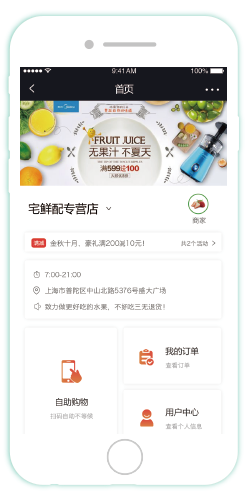
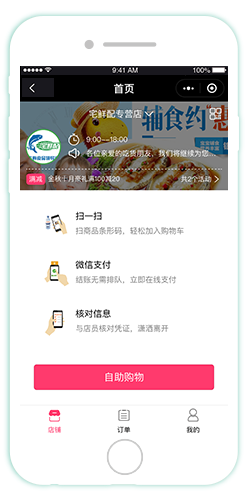
更新merchant应用模块

diff --git a/content/apps/merchant/templates/merchant/merchant_template.dwt.php b/content/apps/merchant/templates/merchant/merchant_template.dwt.php
@@ -64,7 +64,25 @@
                                 </div>
                         	</div>
                         </div>
-                        <div class="form-group">
+                        
+                      	<div class="form-group">
+                        	<label class="control-label col-lg-2"></label>
+                            <div class="col-lg-10">
+                                <div class="template-content img-pwsp-list">
+                                	<div class="template-item">
+                                		<figure><span><a class="nopjax" href="{$app_url}template_4.png" data-size="248x500" data-med-size="200x403" title="点击放大" data-med="{$app_url}template_4.png"><img href="{$app_url}template_4.png" src="{$app_url}template_4.png" class="w200"/></a></span></figure>
+                                	</div>
+                                </div>
+                            </div>
+                            <label class="control-label col-lg-2"></label>
+                            <div class="col-lg-10 m_b10">
+                            	<div class="f_l">
+	                                <input id="template_4" type="radio" name="shop_template" value="default4" {if $shop_template eq 'default4'} checked{/if}/>
+	                                <label for="template_4">优惠买单模版<span class="help-block">适用于到店支付、享受店铺优惠</span></label>
+                                </div>
+                        	</div>
+                        </div>
+                        <div class="form-group m_t20">
                             <div class="col-lg-6 col-md-offset-2">
                                 <input class="btn btn-info" type="submit" name="name" value="确定">
                             </div>

diff --git a/content/apps/merchant/modules/admin/merchant/validate_module.class.php b/content/apps/merchant/modules/admin/merchant/validate_module.class.php
@@ -56,12 +56,18 @@ class validate_module extends api_admin implements api_interface {
 		$value		    = $this->requestData('value');
 		$validate_type	= $this->requestData('validate_type');
 		$validate_code	= $this->requestData('validate_code');
+		$captcha_code = $this->requestData('captcha_code');
 		$time           = RC_Time::gmtime();
 
-		if (empty($type) || empty($value)) {
+		if (empty($type) || empty($value) || empty($captcha_code)) {
 			return new ecjia_error( 'invalid_parameter', RC_Lang::get ('system::system.invalid_parameter' ));
 		}
-
+		
+		//判断验证码是否正确
+		if (isset($captcha_code) && $_SESSION['captcha_word'] != strtolower($captcha_code)) {
+			return new ecjia_error( 'captcha_code_error', '验证码错误');
+		}
+		
 		/* 如果进度查询，查询入驻信息是否存在*/
 		if ($validate_type == 'process') {
 			$info_store_preaudit	= RC_DB::table('store_preaudit')->where('contact_mobile', $value)->first();

diff --git a/content/apps/merchant/templates/merchant/merchant_basic_info.dwt.php b/content/apps/merchant/templates/merchant/merchant_basic_info.dwt.php
@@ -101,7 +101,7 @@ label + div.col-lg-6, label + div.col-lg-2 {
                                     </span>
                                     <a class="btn btn-danger btn-sm fileupload-exists" {if $data.shop_banner_pic}data-toggle="ajax_remove"{else}data-dismiss="fileupload"{/if} href="{url path='merchant/merchant/drop_file' args="code=shop_banner_pic"}" >删除</a>
                                 </div>
-                                <span class="help-block">推荐图片的尺寸为：3:1（600x200px）</span>
+                                <span class="help-block">推荐图片的尺寸为：3:1（1200x400px）</span>
                             </div>
                         </div>
                         

diff --git a/content/apps/merchant/templates/merchant/library/common_header.lbi.php b/content/apps/merchant/templates/merchant/library/common_header.lbi.php
@@ -113,7 +113,7 @@
                    	</ul>
                 </li>
                 <!-- user login dropdown start-->
-                <li class="dropdown m_t5">
+                <li class="dropdown">
                     <a data-toggle="dropdown" class="dropdown-toggle" href="index.html#">
                     	{if $ecjia_staff_logo}
                         <img alt="" width="30" height="30" src="{RC_Upload::upload_url()}/{$ecjia_staff_logo}">

diff --git a/content/apps/merchant/modules/seller/list_module.class.php b/content/apps/merchant/modules/seller/list_module.class.php
@@ -92,7 +92,7 @@ class list_module extends api_front implements api_interface {
 		}
 		
 		$store_data = RC_Api::api('store', 'store_list', $options);
-		$seller_list = array();
+		$seller_list = $distance_list = $sort_order = array();
 		if (!empty($store_data['seller_list'])) {
 			$collect_store_id = RC_DB::table('collect_store')->where('user_id', $_SESSION['user_id'])->lists('store_id');
 
